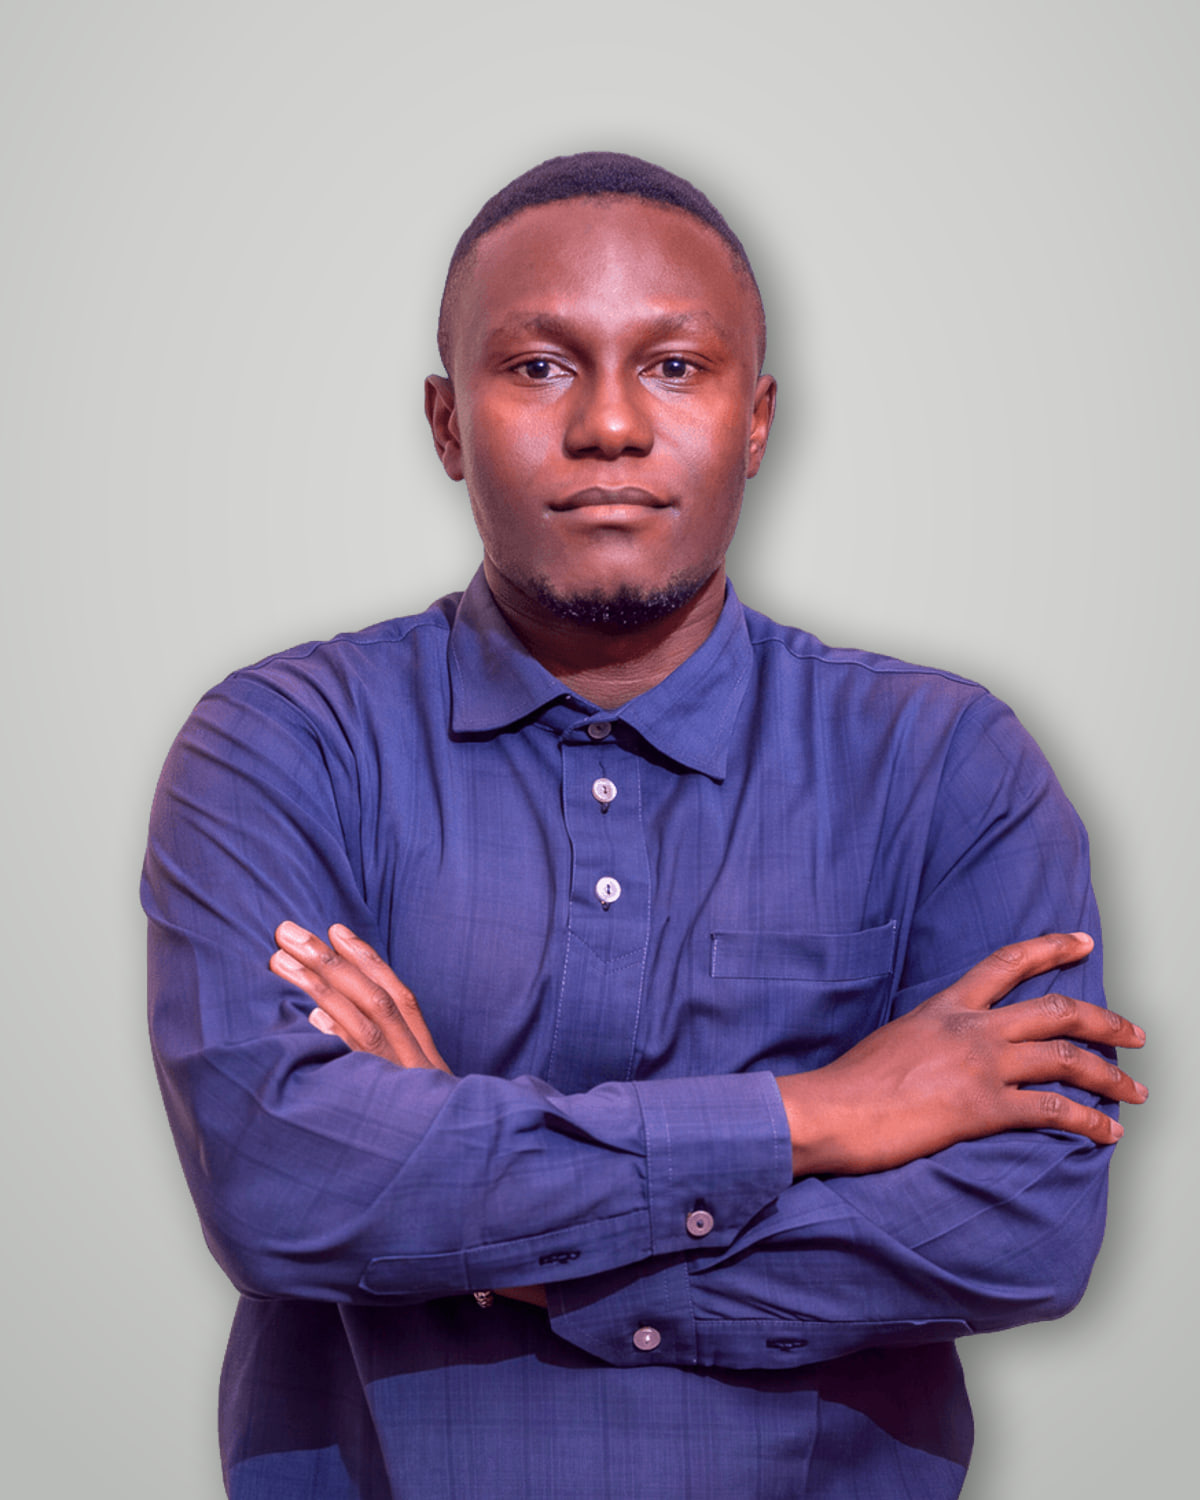
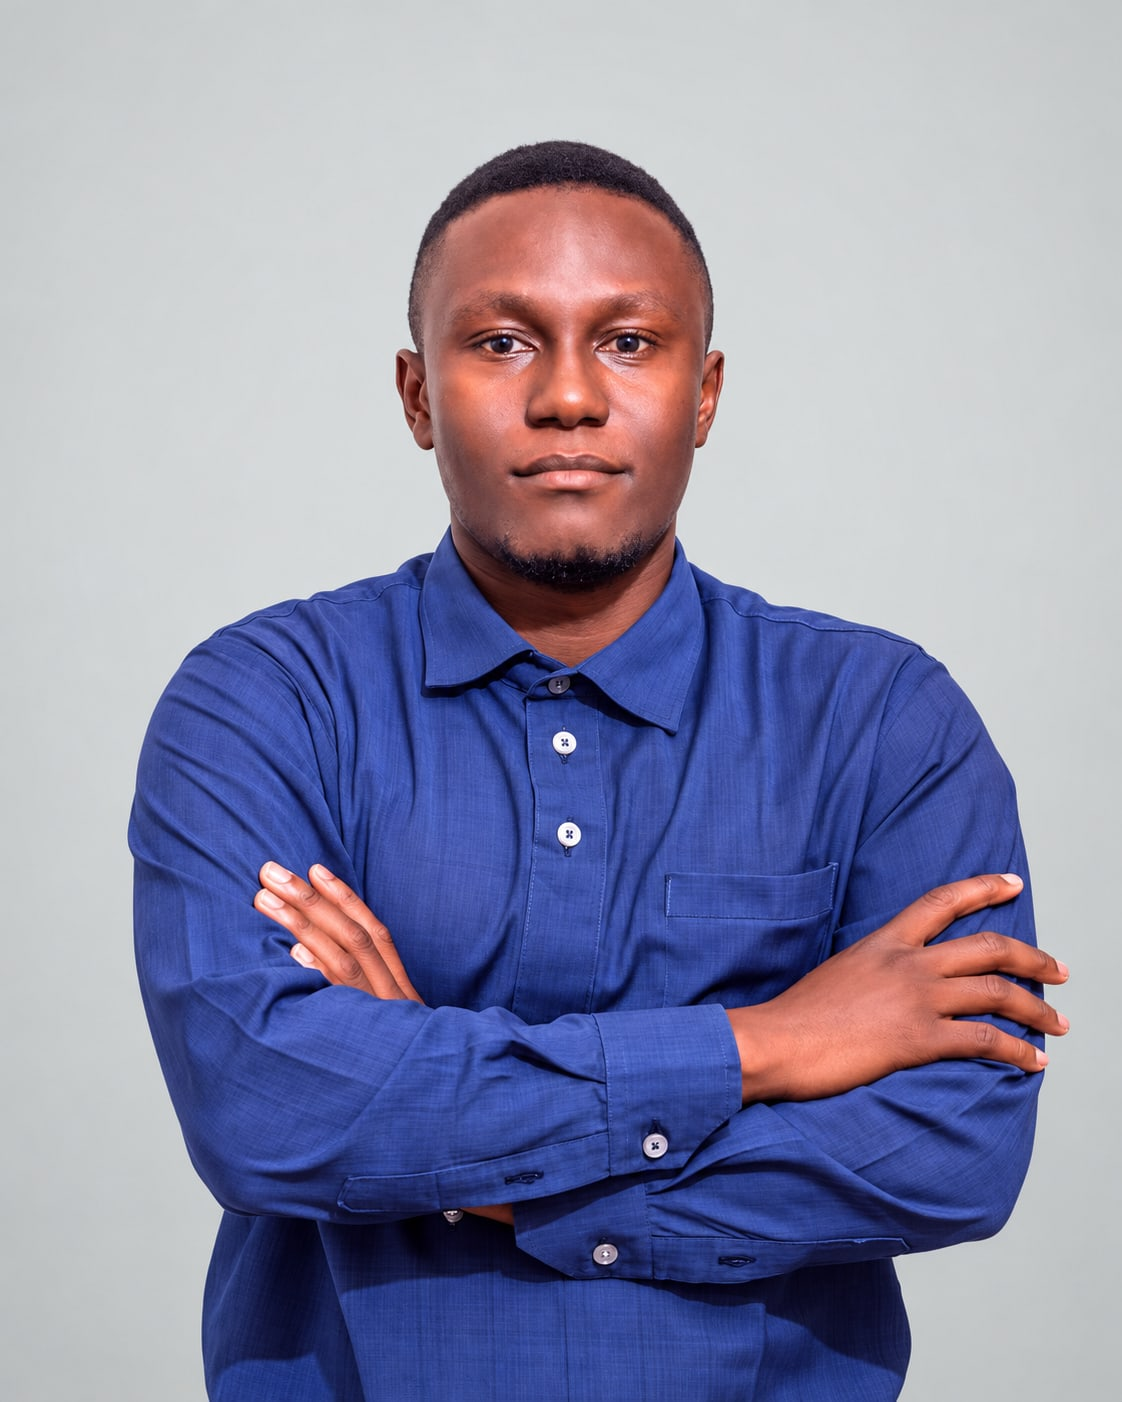
Add the new studio portraits of eleven team members
The portraits ship with the site (public/images/team, dated file names) and
profiles point to them by a path starting with "/"; uploads from the dashboard
still go to Supabase Storage. Doly Azangue and Jean Patrick Musima now use their
new portrait on their profile pages too.

Changed region(s): [[0.0936, 0.092, 0.9982, 1.0]]

diff --git a/lib/data.ts b/lib/data.ts
@@ -36,8 +36,6 @@ export function isLawyerGroup(group: TeamGroup): boolean {
 /** Second photographs shown on profile pages only (cards keep the studio portrait). */
 const profilePhotos: Record<string, string> = {
   "abeng-roland": "/images/profile/abeng-roland-v1.jpg",
-  "doly-azangue": "/images/profile/doly-azangue-v1.jpg",
-  "jean-patrick-musima": "/images/profile/jean-patrick-musima-v1.jpg",
 };
 
 function toMember(row: TeamMemberRecord, locale: Locale): Member {

diff --git a/lib/supabase/public.ts b/lib/supabase/public.ts
@@ -28,7 +28,9 @@ export function anonClient() {
   });
 }
 
+/** Public URL of an image: a storage path ("team/…"), or a file shipped with the site ("/images/…"). */
 export function mediaUrl(path: string | null | undefined): string | null {
   if (!path) return null;
+  if (path.startsWith("/")) return path;
   return `${process.env.NEXT_PUBLIC_SUPABASE_URL}/storage/v1/object/public/media/${path}`;
 }

diff --git a/lib/upload.ts b/lib/upload.ts
@@ -52,6 +52,8 @@ async function downscale(file: File, maxEdge: number): Promise<Blob> {
   );
 }
 
+/** Same rule as mediaUrl (lib/supabase/public.ts): site files start with "/". */
 export function publicMediaUrl(path: string): string {
+  if (path.startsWith("/")) return path;
   return `${process.env.NEXT_PUBLIC_SUPABASE_URL}/storage/v1/object/public/media/${path}`;
 }
